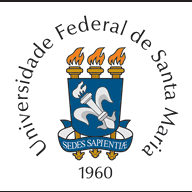
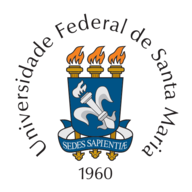
Atualiza aplicação

diff --git a/src/pages/Home/Home.tsx b/src/pages/Home/Home.tsx
@@ -4,7 +4,15 @@ import {
   TabsList,
   TabsTrigger,
 } from "@/components/ui/tabs"
-import { BoneFracture, Brain, Footprints, History, SmilePlus, Users } from "lucide-react"
+import {
+  BoneFracture,
+  Brain,
+  Footprints,
+  History,
+  SmilePlus,
+  Users,
+} from "lucide-react"
+
 import Glasgow from "../Glasgow/Glasgow"
 import Braden from "../Braden/Braden"
 import Morse from "../Morse/Morse"
@@ -12,56 +20,72 @@ import Fugulin from "../Fugulin/Fugulin"
 import Dor from "../Dor/Dor"
 import Historico from "../Historico/Historico"
 
+const tabs = [
+  {
+    value: "glasgow",
+    label: "Glasgow",
+    icon: Brain,
+    component: <Glasgow />,
+  },
+  {
+    value: "braden",
+    label: "Braden",
+    icon: BoneFracture,
+    component: <Braden />,
+  },
+  {
+    value: "morse",
+    label: "Morse",
+    icon: Footprints,
+    component: <Morse />,
+  },
+  {
+    value: "fugulin",
+    label: "Fugulin",
+    icon: Users,
+    component: <Fugulin />,
+  },
+  {
+    value: "dor",
+    label: "Dor",
+    icon: SmilePlus,
+    component: <Dor />,
+  },
+  {
+    value: "historico",
+    label: "Histórico",
+    icon: History,
+    component: <Historico />,
+  },
+]
+
 export default function Home() {
   return (
     <main className="flex min-h-screen justify-center p-5 md:p-10">
-      <Tabs defaultValue="glasgow" className="w-full sm:max-w-[90dvw] lg:max-w-[50dvw]">
-        <div className="overflow-x-auto overflow-y-hidden">
-          <TabsList className="inline-flex w-max min-w-full">
-            <TabsTrigger value="glasgow" className="cursor-pointer">
-              <Brain /> Glasgow
-            </TabsTrigger>
-            <TabsTrigger value="braden" className="cursor-pointer">
-              <BoneFracture /> Braden
-            </TabsTrigger>
-            <TabsTrigger value="morse" className="cursor-pointer">
-              <Footprints /> Morse
-            </TabsTrigger>
-            <TabsTrigger value="fugulin" className="cursor-pointer">
-              <Users /> Fugulin
-            </TabsTrigger>
-            <TabsTrigger value="dor" className="cursor-pointer">
-              <SmilePlus /> Dor
-            </TabsTrigger>
-            <TabsTrigger value="historico" className="cursor-pointer">
-              <History /> Histórico
-            </TabsTrigger>
+      <Tabs
+        defaultValue={tabs[0].value}
+        className="w-full sm:max-w-[90dvw] lg:max-w-[50dvw]"
+      >
+        <div className="h-auto">
+          <TabsList className="grid w-full grid-cols-2 md:grid-cols-3 lg:grid-cols-6 h-auto">
+            {tabs.map(({ value, label, icon: Icon }) => (
+              <TabsTrigger
+                key={value}
+                value={value}
+                className="flex items-center justify-center gap-2 py-2 cursor-pointer"
+              >
+                <Icon className="h-4 w-4" />
+                <span>{label}</span>
+              </TabsTrigger>
+            ))}
           </TabsList>
         </div>
 
-        <TabsContent value="glasgow">
-          <Glasgow />
-        </TabsContent>
-
-        <TabsContent value="braden">
-          <Braden />
-        </TabsContent>
-
-        <TabsContent value="morse">
-          <Morse />
-        </TabsContent>
-
-        <TabsContent value="fugulin">
-          <Fugulin />
-        </TabsContent>
-
-        <TabsContent value="dor">
-          <Dor />
-        </TabsContent>
-
-        <TabsContent value="historico">
-          <Historico />
-        </TabsContent>
+        {tabs.map(({ value, component }) => (
+          <TabsContent key={value} value={value}>
+            {component}
+          </TabsContent>
+        ))}
       </Tabs>
     </main>
   )

diff --git a/src/pages/Inicio/Inicio.tsx b/src/pages/Inicio/Inicio.tsx
@@ -7,6 +7,7 @@ import {
   CardHeader,
   CardTitle,
 } from "@/components/ui/card"
+import { Separator } from "@/components/ui/separator";
 
 import { SquareArrowRight } from "lucide-react";
 import { Link } from "react-router-dom";
@@ -14,14 +15,21 @@ import { Link } from "react-router-dom";
 export default function Inicio() {
   return (
     <main className="flex flex-col min-h-screen items-center justify-center gap-2">
-      <Card className="mx-auto w-full max-w-sm">
+      <Card className="mx-auto w-full max-w-[90vw] sm:max-w-sm">
         <CardHeader>
-          <CardTitle className="text-3xl">Projeto de Mestrado</CardTitle>
+          <div className="flex gap-2 items-center">
+            <img
+              src={`${import.meta.env.BASE_URL}ufsm-192.png`}
+              alt="UFSM logo"
+              className="w-25"
+            />  
+            <CardTitle className="text-3xl">Projeto de Mestrado</CardTitle>
+          </div>
           <CardDescription>
             Mestranda: Fernanda Tavani Soares
           </CardDescription>
         </CardHeader>
-
+        <Separator />
         <CardContent>
           <p className="text-justify">
             A <strong>Escala de Coma de Glasgow (ECG)</strong> é uma ferramenta clínica padronizada que avalia o nível de consciência de um paciente, especialmente após traumas cranioencefálicos (TCE). A pontuação varia de <strong>3 a 15</strong>, baseada em três respostas principais: <strong>Abertura Ocular</strong>, <strong>Resposta Verbal</strong> e <strong>Resposta Motora</strong>.
@@ -29,7 +37,7 @@ export default function Inicio() {
         </CardContent>
         
         <CardFooter>
-          <Button variant="outline" size="sm" className="w-full" asChild>
+          <Button size="sm" className="w-full" asChild>
             <Link to="/home">
               Iniciar <SquareArrowRight />
             </Link>

diff --git a/src/pages/Historico/Historico.tsx b/src/pages/Historico/Historico.tsx
@@ -105,7 +105,7 @@ export default function Historico() {
             </EmptyHeader>
           </Empty>
         ) : (
-          <ScrollArea className="h-full sm:h-[60dvh] w-full">
+          <ScrollArea className="h-full sm:h-[75dvh] w-full">
             {historicoGlasgow.length > 0 &&
               <>
                 <h2 className="scroll-m-20 pb-2 text-xl font-semibold tracking-tight not-first:mt-2">

diff --git a/index.html b/index.html
@@ -3,7 +3,7 @@
   <head>
     <meta name="theme-color" content="#1976d2" />
     <meta charset="UTF-8" />
-    <link rel="icon" type="image/svg+xml" href="/favicon.svg" />
+    <link rel="icon" type="image/svg+xml" href="/ufsm-192.png" />
     <meta name="viewport" content="width=device-width, initial-scale=1.0" />
     <title>Escala pacientes</title>
   </head>

diff --git a/src/pages/Fugulin/Fugulin.tsx b/src/pages/Fugulin/Fugulin.tsx
@@ -99,7 +99,7 @@ export default function Fugulin() {
       </CardHeader>
 
       <CardContent>
-        <ScrollArea ref={scrollAreaRef} className="h-full sm:h-[60dvh] w-full">
+        <ScrollArea ref={scrollAreaRef} className="h-full sm:h-[65dvh] w-full">
           <FormEscala
             escalas={escalasFugulin}
             respostas={respostas}

diff --git a/src/pages/Glasgow/Glasgow.tsx b/src/pages/Glasgow/Glasgow.tsx
@@ -97,7 +97,7 @@ export default function Glasgow() {
       </CardHeader>
 
       <CardContent>
-        <ScrollArea ref={scrollAreaRef} className="h-full sm:h-[60dvh] w-full">
+        <ScrollArea ref={scrollAreaRef} className="h-full sm:h-[65dvh] w-full">
           <FormEscala
             escalas={escalasGlasgow}
             respostas={respostas}

diff --git a/src/pages/Braden/Braden.tsx b/src/pages/Braden/Braden.tsx
@@ -97,7 +97,7 @@ export default function Braden() {
       </CardHeader>
 
       <CardContent>
-        <ScrollArea ref={scrollAreaRef} className="h-full sm:h-[60dvh] w-full">
+        <ScrollArea ref={scrollAreaRef} className="h-full sm:h-[65dvh] w-full">
           <FormEscala
             escalas={escalasBraden}
             respostas={respostas}

diff --git a/src/pages/Morse/Morse.tsx b/src/pages/Morse/Morse.tsx
@@ -97,7 +97,7 @@ export default function Morse() {
       </CardHeader>
 
       <CardContent>
-        <ScrollArea ref={scrollAreaRef} className="h-full sm:h-[60dvh] w-full">
+        <ScrollArea ref={scrollAreaRef} className="h-full sm:h-[65dvh] w-full">
           <FormEscala
             escalas={escalasMorse}
             respostas={respostas}
